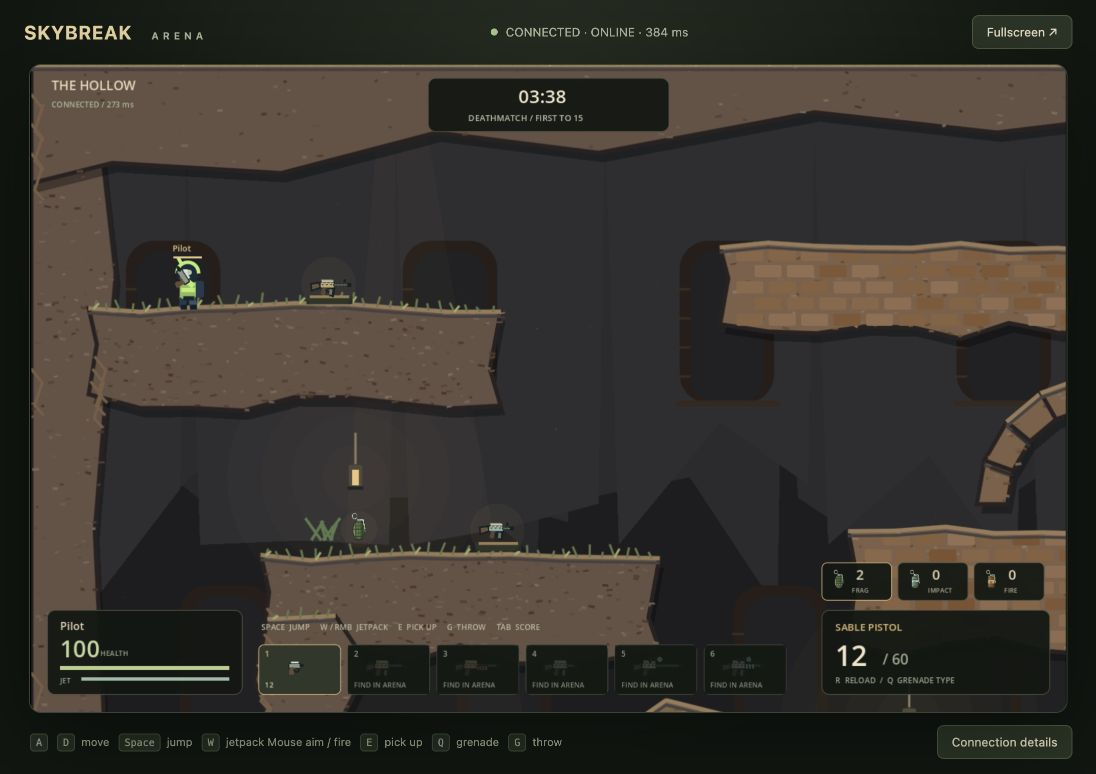
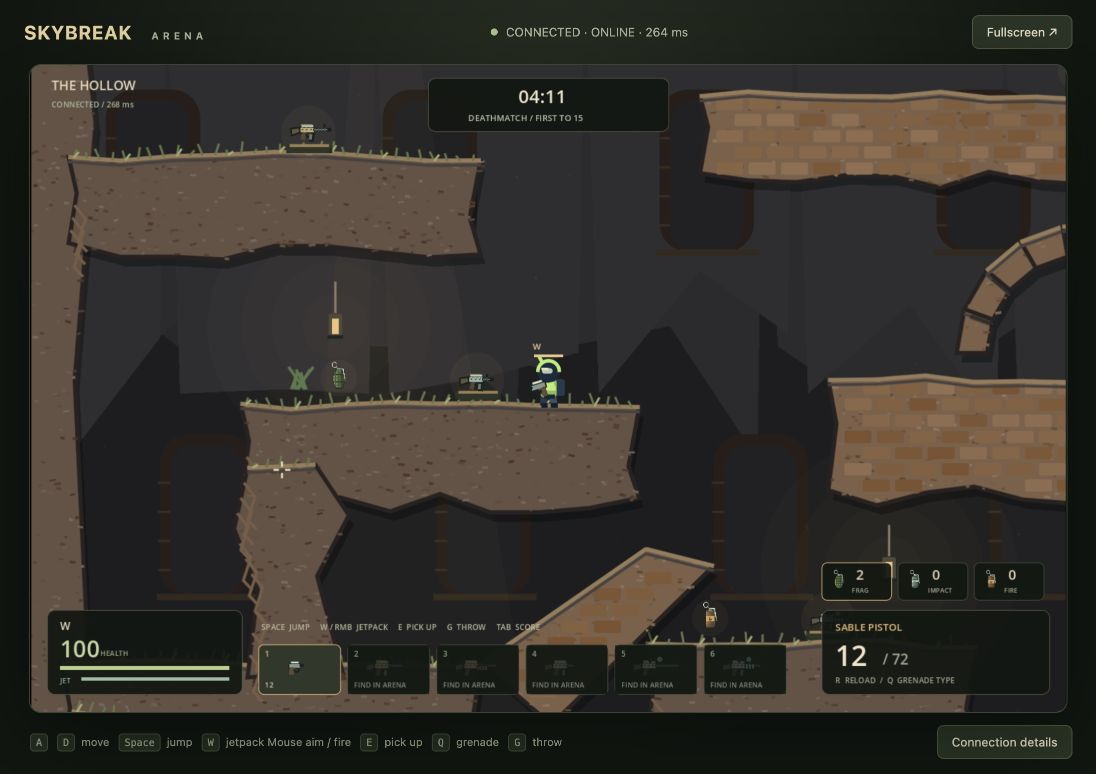
Record final production combat and browser verification

diff --git a/docs/TESTING.md b/docs/TESTING.md
@@ -31,4 +31,8 @@ The website exposes a Connection details panel with FPS, ping, snapshot count an
 
 ## Known limits
 
+Production verification on 2026-11-03: Vercel and Render both deployed `e00baad`; two real browser tabs joined an invite and started a synchronized match. The real Render integration test passed with 8 hits, 1 kill, 304/271 snapshots and one gameplay reconnect. The simulation suite passed 48 checks. [GitHub CI](https://github.com/Alexwatson-de/Skybreak/actions/runs/41585625956) passed the Linux checks.
+
+Spatial indexing preserved the previous collision trajectories on all three maps. A 3,000-step native movement benchmark took 500,883 µs without indexing and 122,289 µs with indexing (about 4.1× faster). Two simultaneous browser clients on the test machine improved from roughly 6–7 FPS to 15 FPS, still below a smooth 60 FPS target. These measurements do not certify performance on other devices. Sanitized live evidence and the actual browser screenshot are in `live-online-test-evidence.json`, `live-browser-test-evidence.json` and `live-browser-match.png`.
+
 Keyboard/mouse only; no mobile touch, persistent accounts, host migration or cross-region matchmaking. Render Free can cold-start after inactivity and loses in-memory sessions on restart. No guarantee of zero lag or unlimited free hosting is made. Physical multi-device, adverse Internet packet-loss, long soak and recipient-Mac checks require their actual environments. Docker/Linux build verification is supplied by the CI/hosting run rather than inferred from macOS tests.
